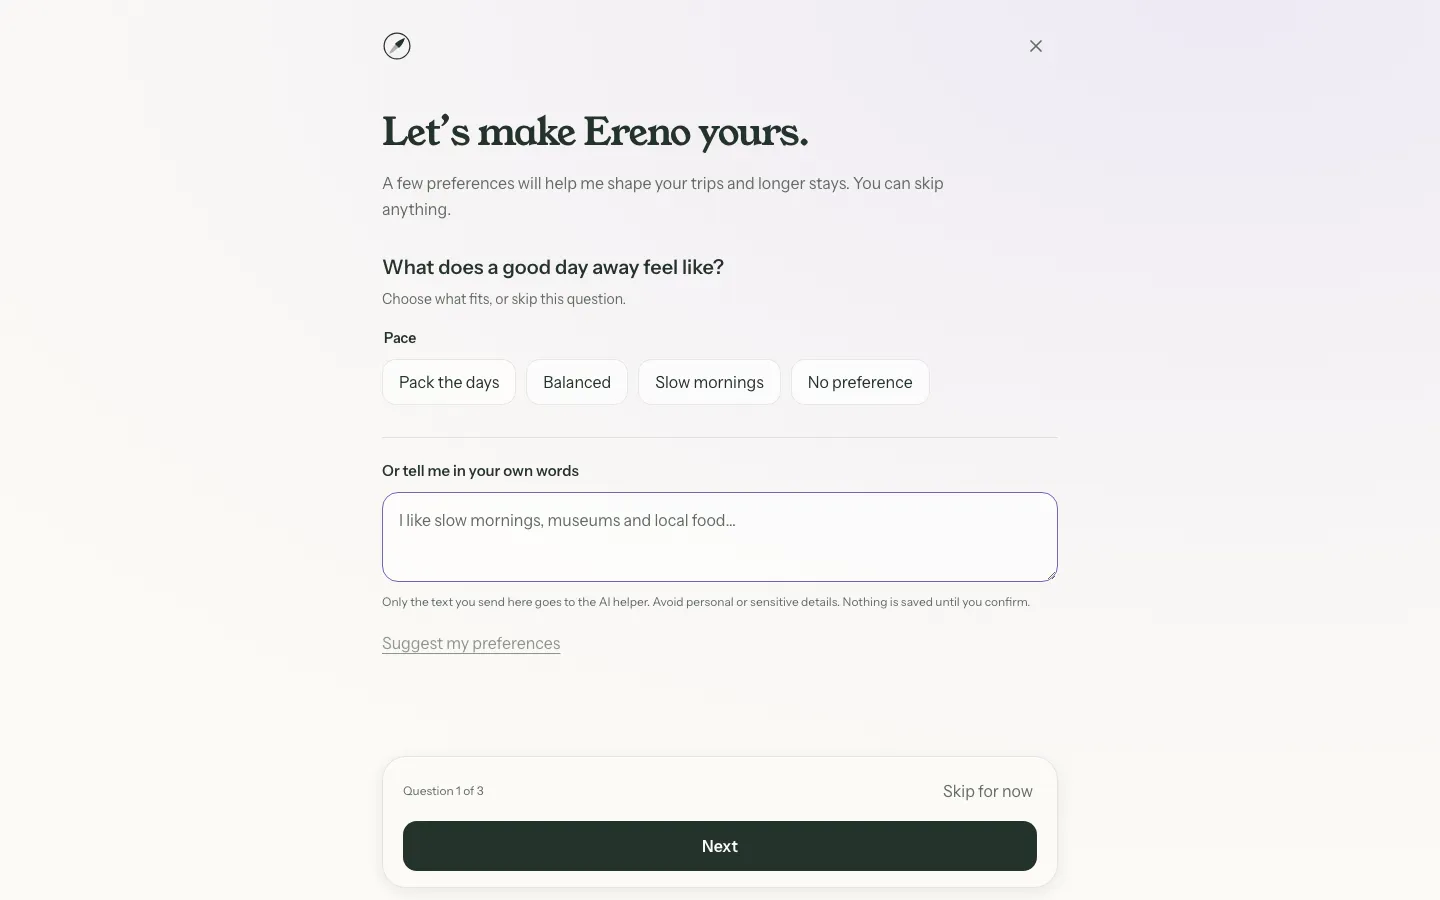
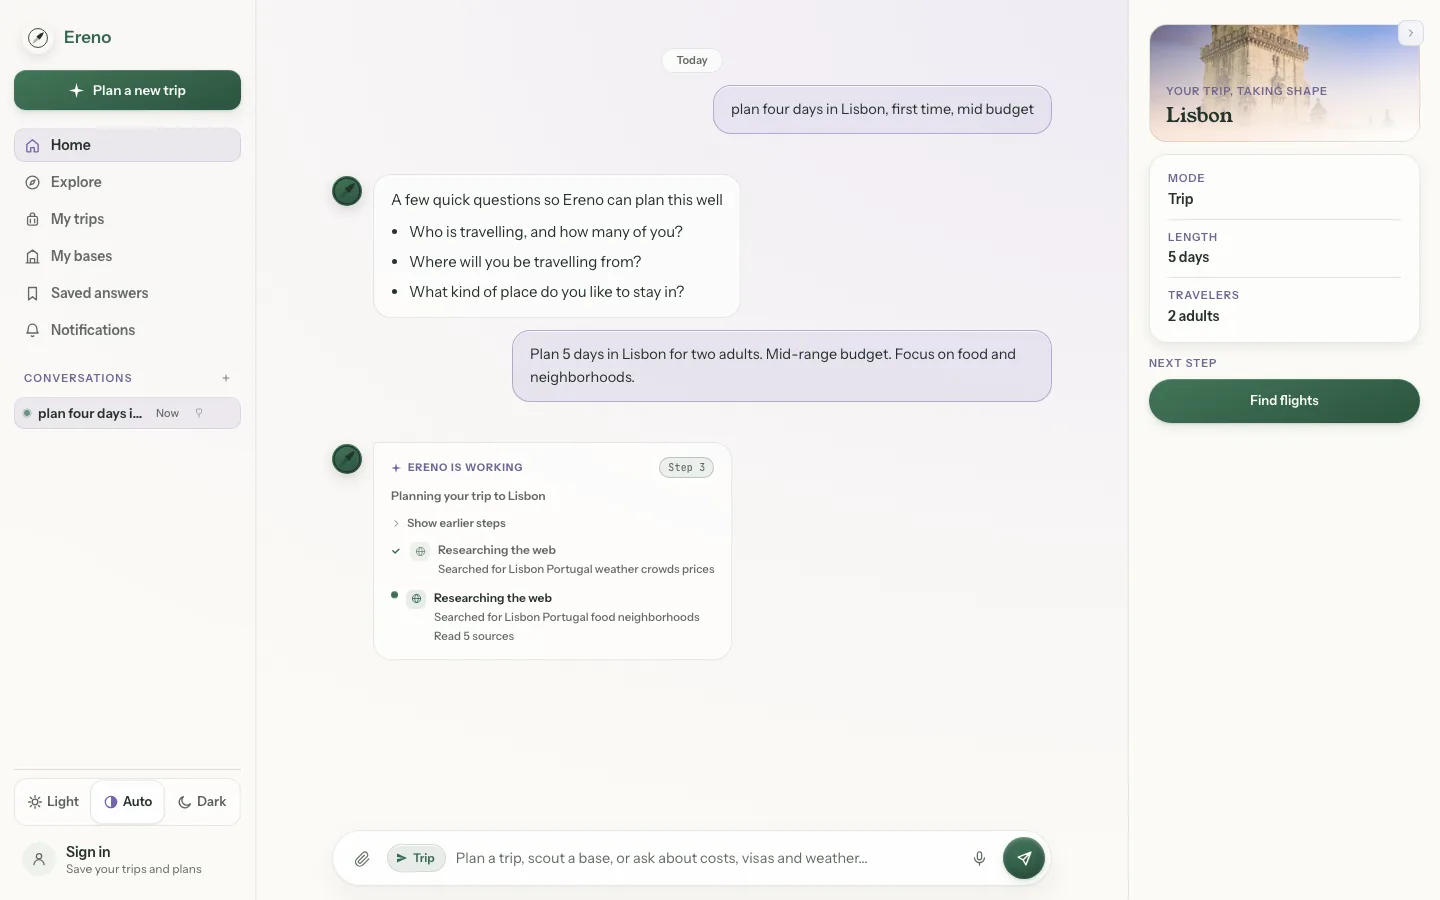
Show the live Ereno planning app in product shots
Replace onboarding frames with a real Lisbon trip thread: sidebar, chat, research progress, and trip panel.

diff --git a/src/content/site.ts b/src/content/site.ts
@@ -80,7 +80,7 @@ export const products: Product[] = [
     mark: '/ereno.svg',
     imageLight: '/images/ereno-app-light.webp',
     imageDark: '/images/ereno-app-dark.webp',
-    imageAlt: 'Screenshot of the Ereno web app preference onboarding',
+    imageAlt: 'Screenshot of the Ereno web app planning a Lisbon trip',
     title: 'A trip planner that shows its sources.',
     text: 'Ereno is a web app for planning trips and scouting places to stay. You describe what you want in plain language. It pulls research, compares options, and keeps the trade-offs visible. It does not book anything. You book with the provider.',
     points: [
